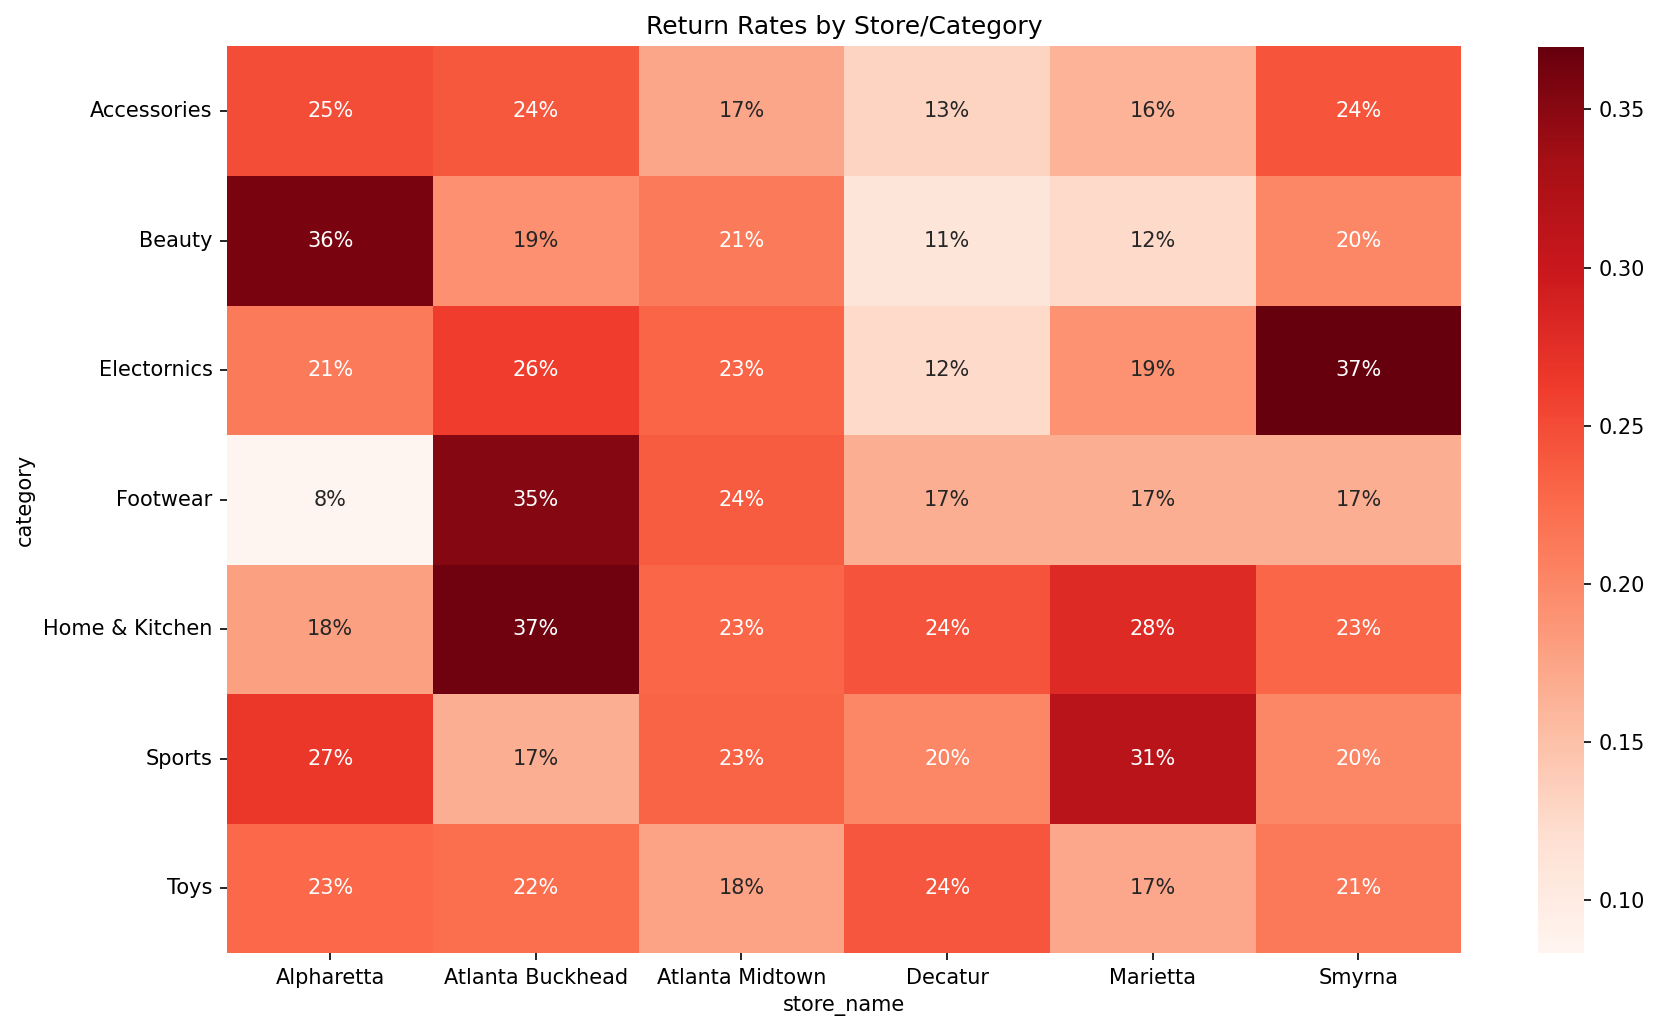
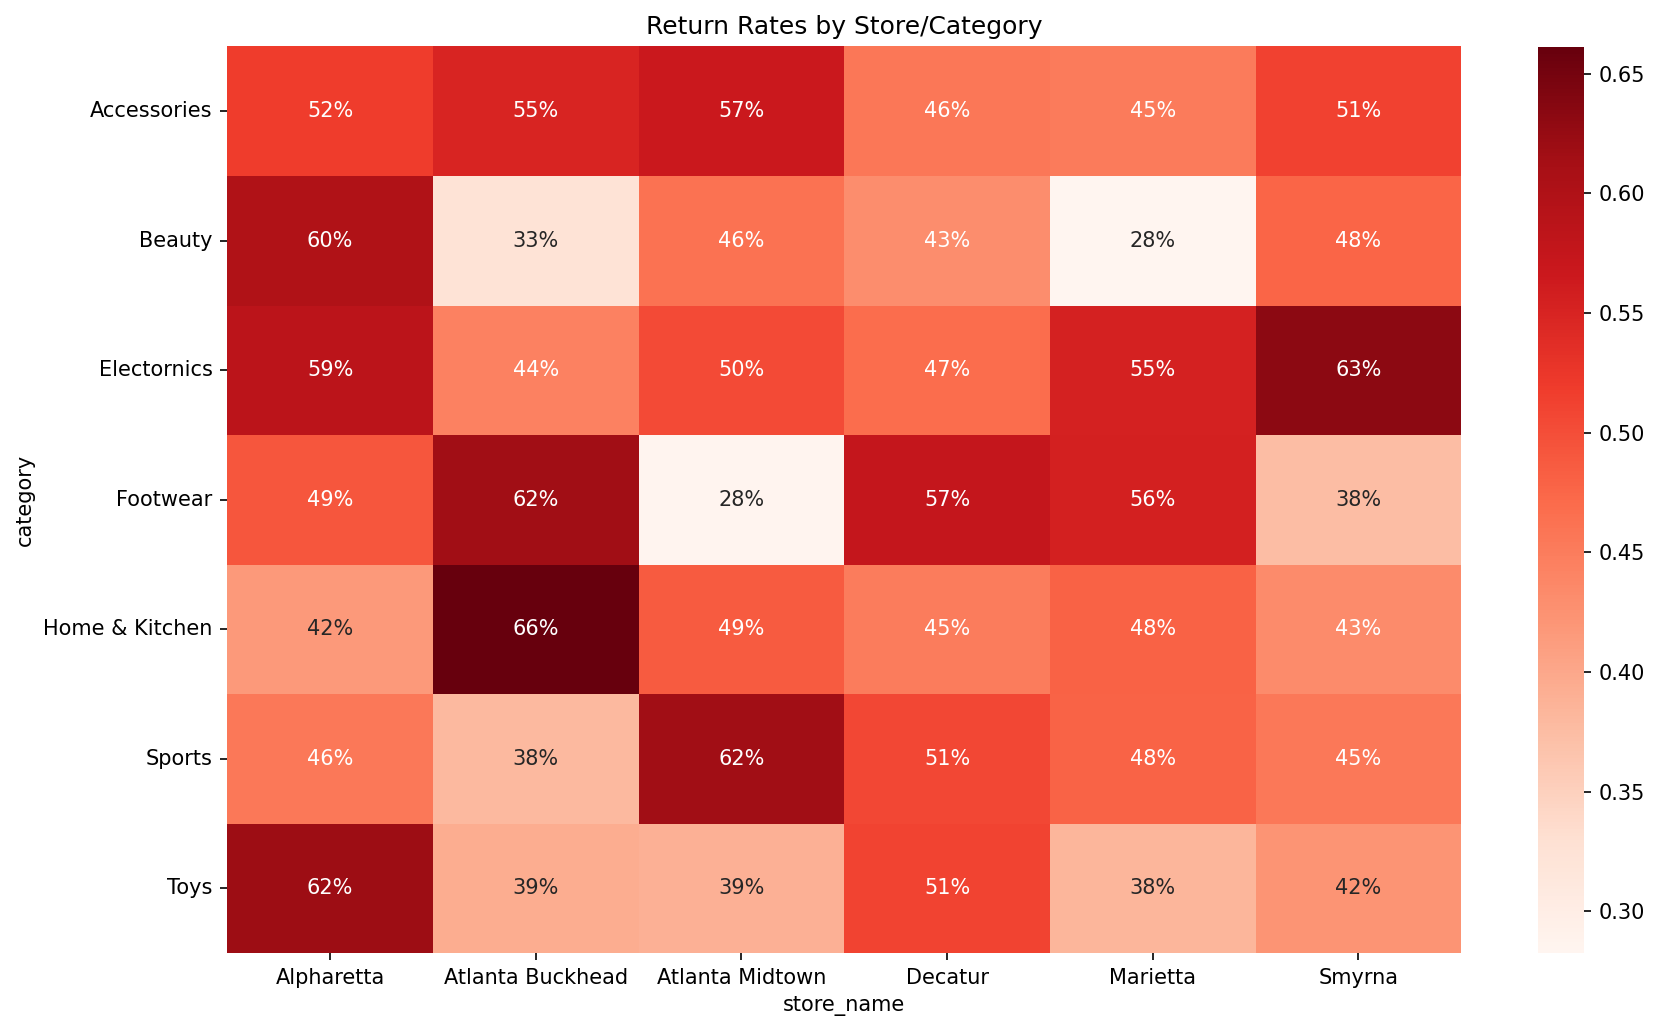
Fixed:  the return rate calculation to now items returned, original calculation was based upon transaction returns

diff --git a/02_pinnacle_retail/python/03_returns_heatmap.py b/02_pinnacle_retail/python/03_returns_heatmap.py
@@ -31,6 +31,7 @@ prod = pd.read_sql_query(query1, conn)
 query2 = """
     SELECT
         product_id
+    ,   quantity    
     ,   return_flag
     ,   store_id
     FROM
@@ -42,15 +43,17 @@ transact = pd.read_sql_query(query2, conn)
 # -- Merge store with transact
 stor_tx = pd.merge(stor, transact, on=['store_id'], how="inner")
 # -- Merge new set with product to get all needed info
-merged_stor = pd.merge(stor_tx, prod, on=['product_id'], how="inner")
+merged_stor = pd.merge(stor_tx, prod, on=['product_id'], how="left")
 
 # -- Transform 'return_flag' to boolean
-merged_stor['return_flag'] = merged_stor['return_flag'].str.lower() == 'yes'
+merged_stor = merged_stor.dropna(subset=['return_flag'])
+merged_stor['return_flag'] = merged_stor['return_flag'].str.lower().isin(['yes', 'y', 'true'])
+merged_stor['return_units'] = merged_stor['return_flag'] * merged_stor['quantity']
 
 # -- aggregate returns by store/category
 returns = merged_stor.groupby(['store_name','category']).agg(
-    total=('return_flag', 'count'),
-    returns=('return_flag', 'sum')
+    total=('quantity', 'sum'),
+    returns=('return_units', 'sum')
 )
 returns['rate'] = returns['returns']/returns['total']
 returns = returns.reset_index()

diff --git a/README.md b/README.md
@@ -35,16 +35,15 @@ which content drives real business outcomes for a data analytics bootcamp.
 - [View Tableau Dashboard](https://public.tableau.com/views/DIMint/Dashboard1?:language=en-US&:sid=&:redirect=auth&:display_count=n&:origin=viz_share_link)
 # 
 
-# ### 02 — Pinnacle Retail Group | Business Intelligence Analysis 
-End-to-end BI analysis for a 6-store Atlanta retail chain facing margin decline
-and inventory inefficiencies.
+### 02 — Pinnacle Retail Group | Business Intelligence Analysis
+End-to-end BI analysis for a 6-store Atlanta retail chain facing margin decline and inventory inefficiencies.
 
-- 2,000+ transactions | 847 orphaned product IDs resolved | VP-level executive briefing
-- **In progress:** Revenue vs. projected analysis complete — 2025 actuals running 80–90% below projection across all 5 months (Jan–May)
-- Tools: SQL · Python · Tableau
-- [View project](./02\_pinnacle\_retail/)
-
-# 
+* 2,000+ transactions | 847 orphaned product IDs resolved | VP-level executive briefing
+* Revenue vs. projected analysis complete — 2025 actuals running 80–90% below projection across all 5 months (Jan–May)
+* Returns analysis — Alpharetta, Buckhead & Smyrna all with categorical return rates >35%
+* Stockout analysis — 18 products in immediate stockout risk; additional SKUs flagged with no reorder trigger
+* Tools: SQL · Python · Tableau
+- [View project](https://github.com/jglenn2nd-L-ohist/Analytics_portfolio/blob/main/02_pinnacle_retail)
 
 # \---
 
